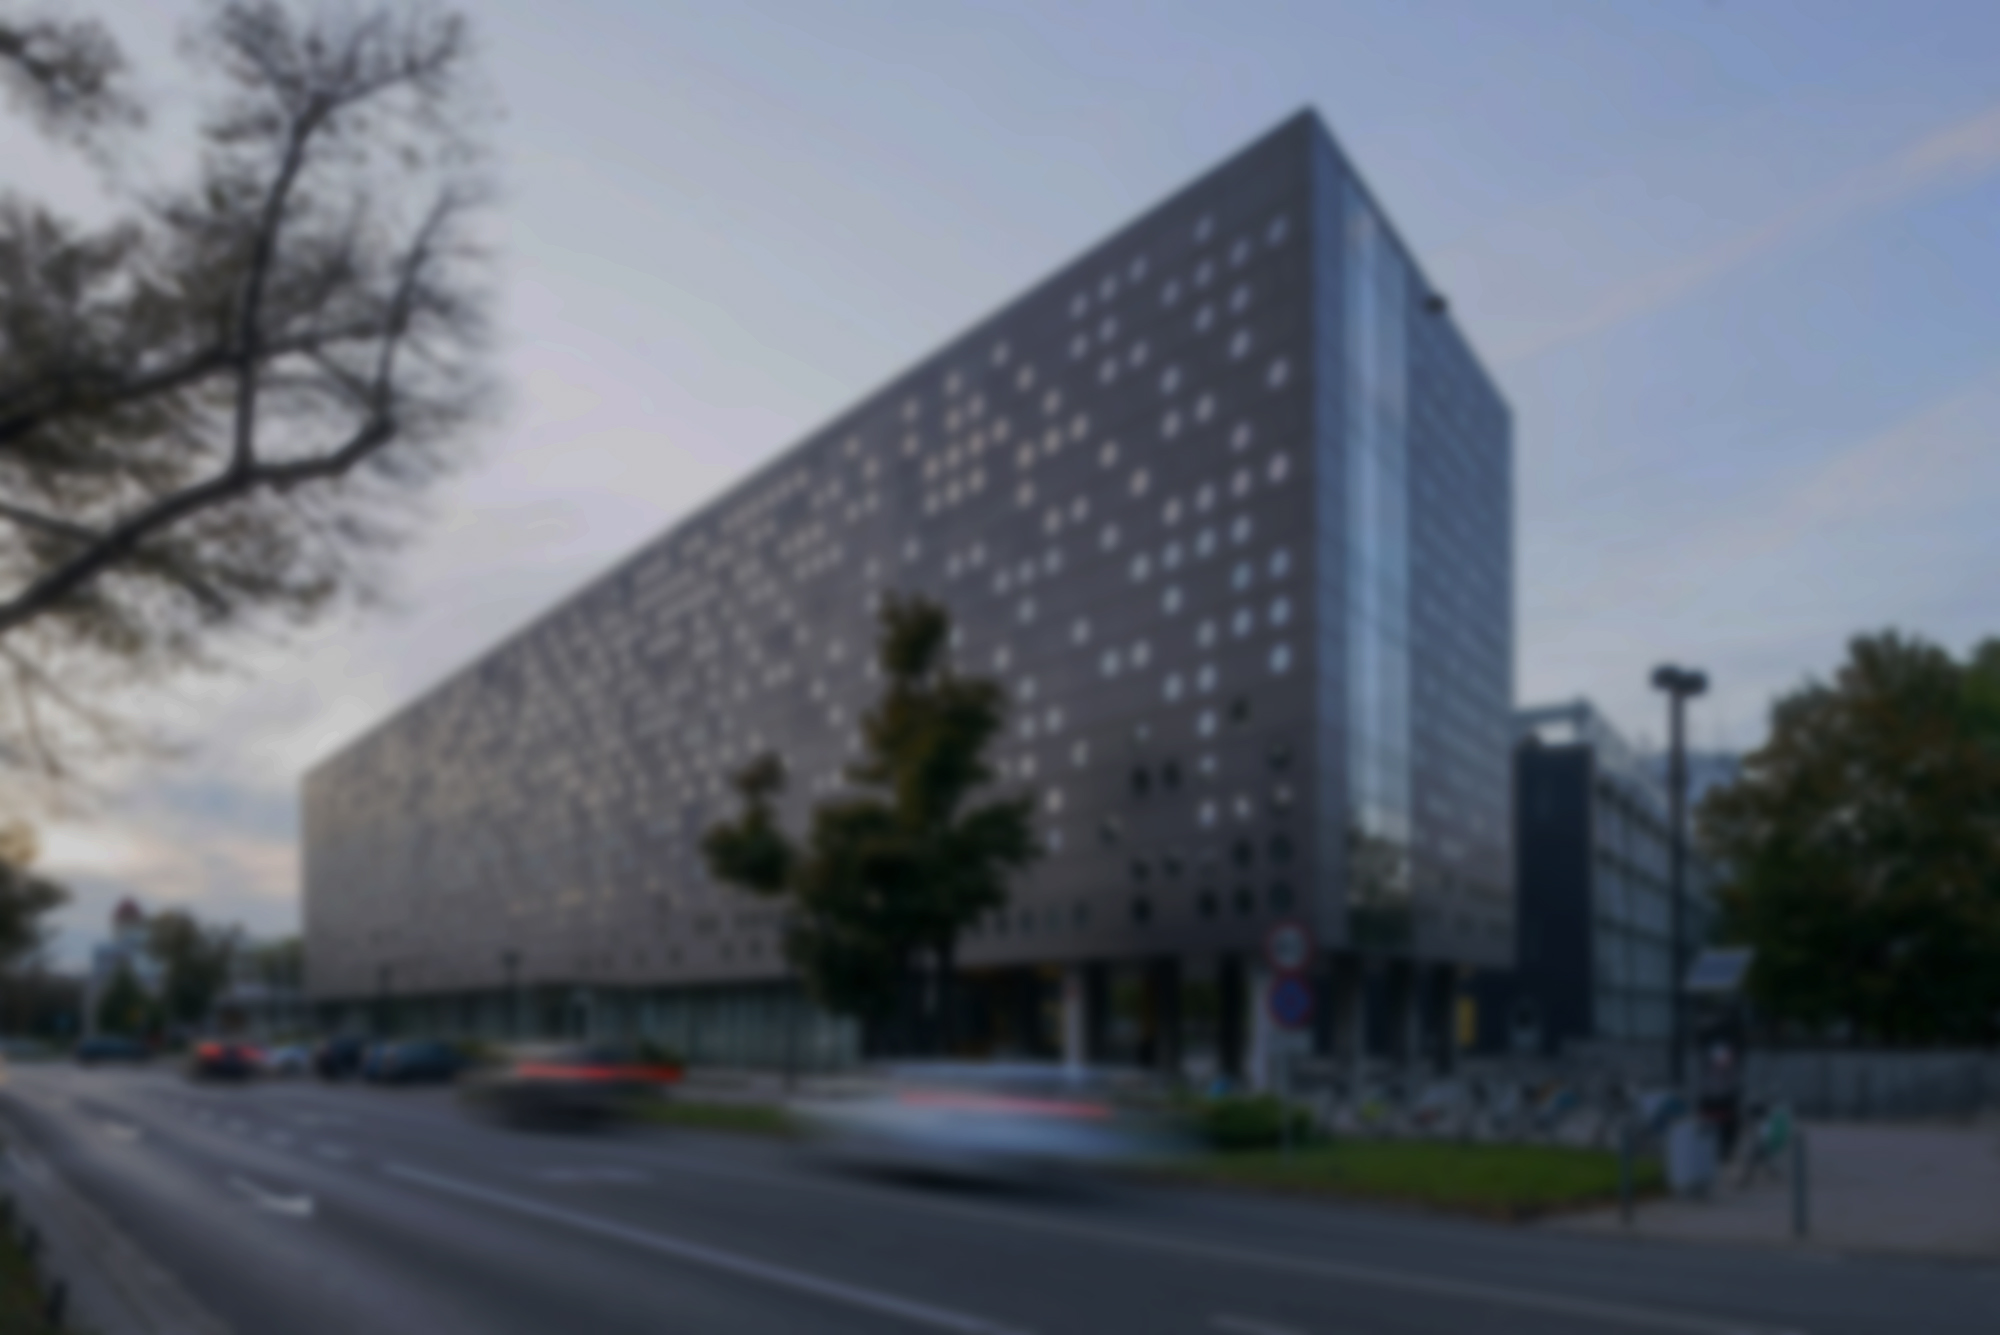
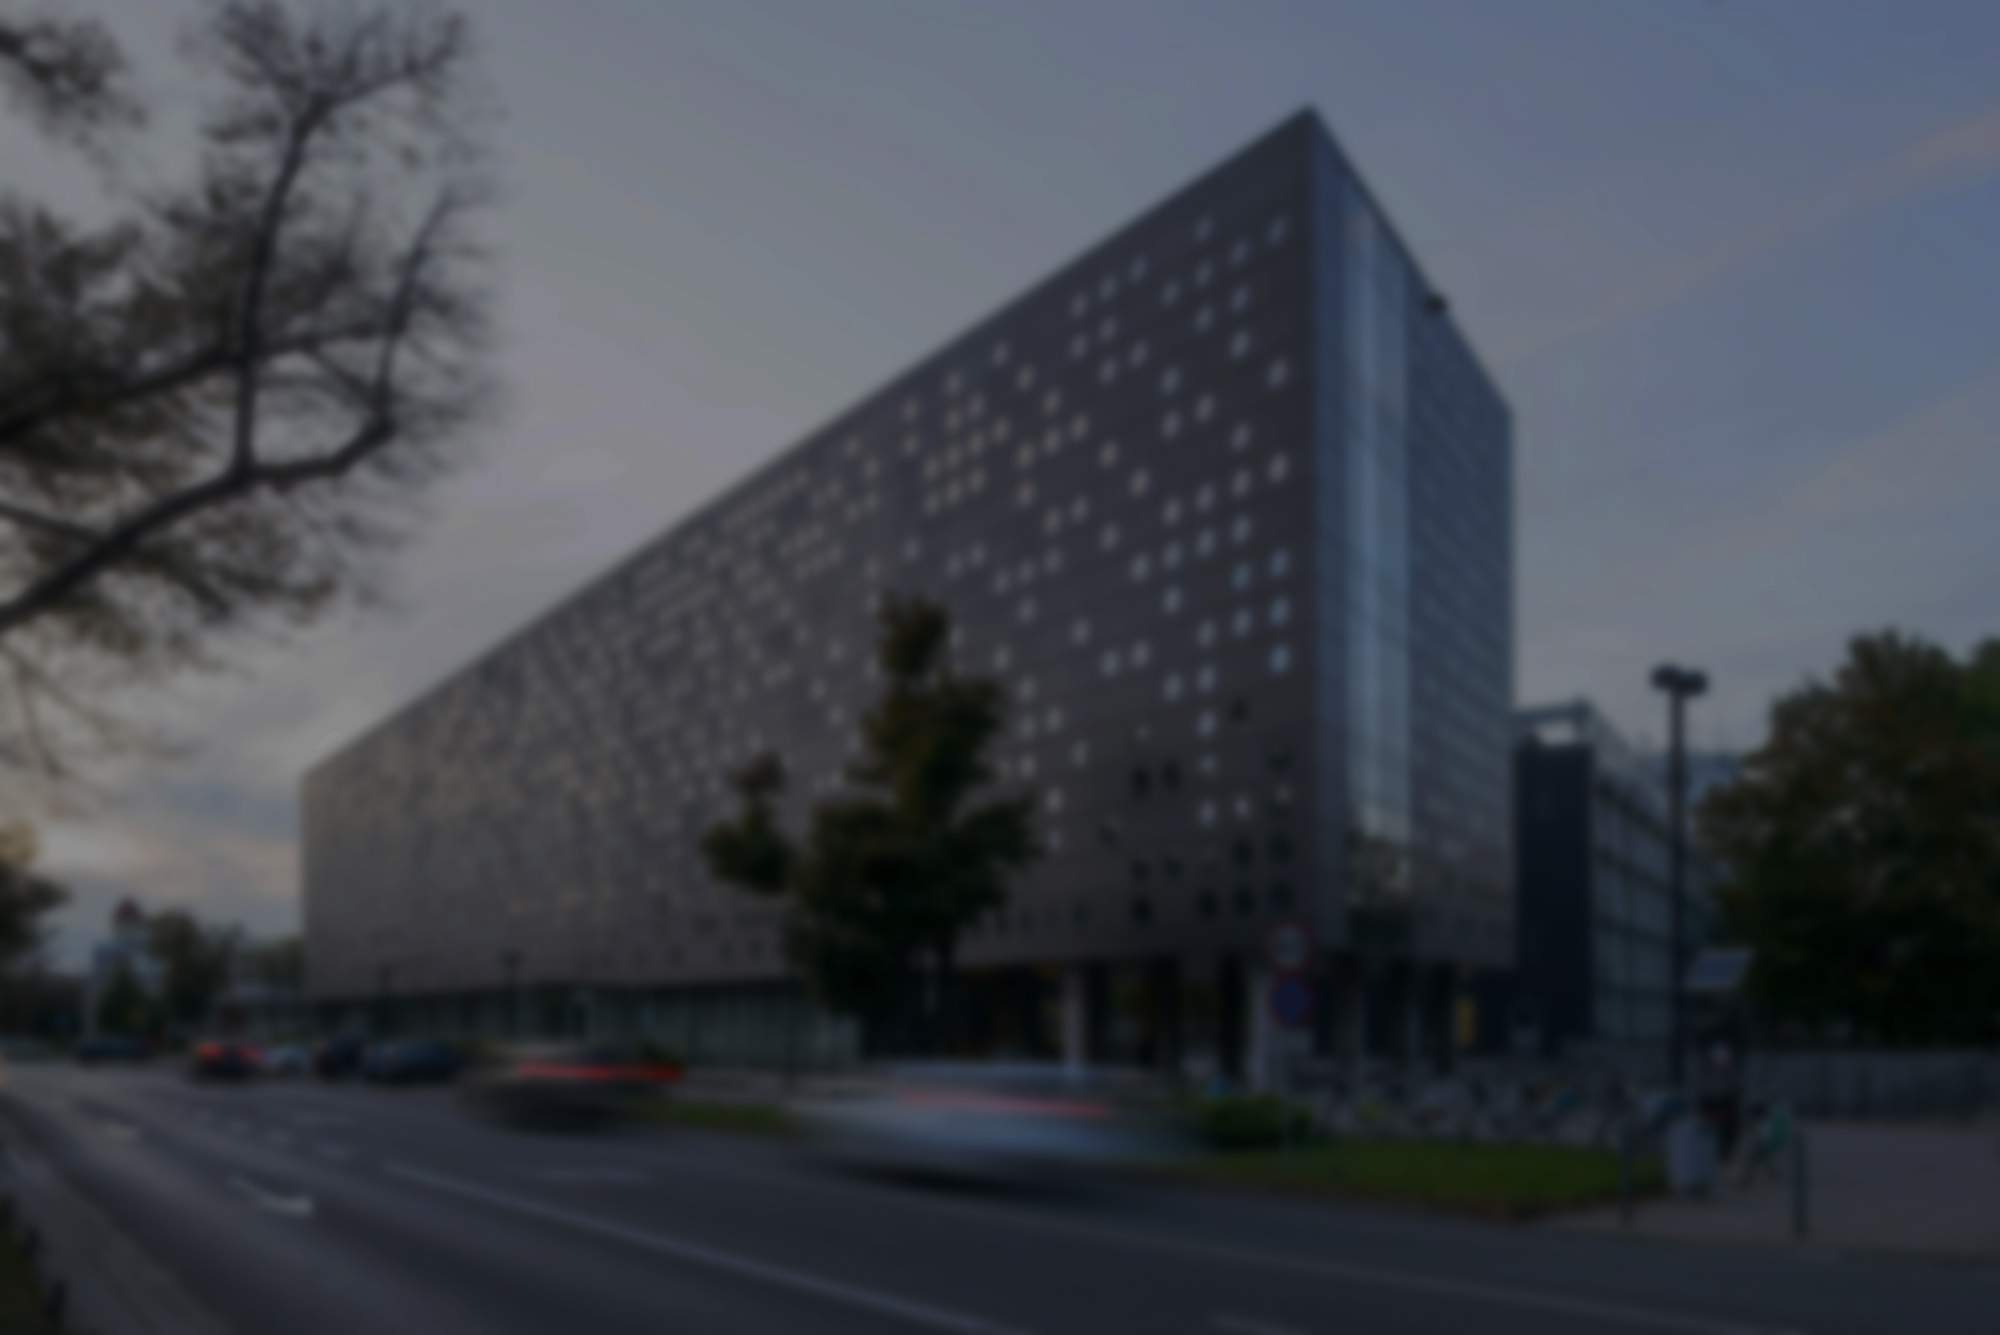
poprawki zapisów, upgrade tła

diff --git a/html/zarzadzanie_zapisy.html b/html/zarzadzanie_zapisy.html
@@ -23,13 +23,13 @@
 			}
 		</script>
 		<meta charset="utf-8">
-		<title>System obsługi studentów - Ogłoszenia</title>
+		<title>System obsługi studentów - zarządzanie zapisami</title>
 		<meta name="description" content="System Obsługi Studentów">
 		<link rel="stylesheet" href="/css/navbar.css">
         <link rel="stylesheet" href="/css/modal.css">
 		<link rel="stylesheet" href="/css/main.css">
 		<style>
-			.ogloszenie {
+			.zapisy {
 				border-radius: 10px;
 				margin: 5px 0px 5px 0px;
 				padding: 15px 15px 15px 15px;
@@ -37,14 +37,14 @@
 				background-color: red;
 			}
 
-			.ogloszenie h3 {
+			.zapisy h3 {
 				margin: 0px 0px 15px 0px;
 			}
-			.ogloszenie p {
+			.zapisy p {
 				margin: 8px 0px 8px 0px;
 			}
 
-            .ogloszenie button{
+            .zapisy button{
                 width: 100px;
             }
 
@@ -149,45 +149,45 @@
 			<div class="header">
 				<h2>Zarządzanie zapisami</h2>
 			</div>
-			<div id="ogloszenia" class="ogloszenia">
+			<div id="divzapisy">
                 <button id="nowe">Dodaj nowe zapisy</button>
             </div>
 		</div>
 
-        <div id="modalOgloszenie" class="modal">
+        <div id="modalZapisy" class="modal">
 			<div class="modal-content">
 				<div class="modal-header">
 					<span id="modalZamknij" class="close">&times;</span>
-					<h2 disabled id='modalOgloszenieTytul'>Zapisy <span><label for="modalOgloszenieId"> o ID = </label><span id="modalOgloszenieId"></span></span></h2>
+					<h2 disabled id='modalZapisyTytul'>Zapisy <span><label for="modalZapisyId"> o ID = </label><span id="modalZapisyId"></span></span></h2>
 				</div>
 				<div class="modal-body">
 
-                    <label for="modalOgloszenieNadawca">Nazwa:</label></br>
-					<input id="modalOgloszenieNadawca"></input></br>
+                    <label for="modalZapisyNadawca">Nazwa:</label></br>
+					<input id="modalZapisyNadawca"></input></br>
                     
-                    <label for="modalOgloszenieTemat">Czy publiczne?:</label></br>
-					<select id="modalOgloszenieTemat">
+                    <label for="modalZapisyTemat">Czy publiczne?:</label></br>
+					<select id="modalZapisyTemat">
 						<option value="false" selected>Nie</option>
 						<option value="true">Tak</option>
 					</select></br></br>
 
-                    <button id="modalOgloszenieEdytuj" onclick="edytuj_zatwierdz()" >Edytuj</button>
-                    <button id="modalOgloszenieDodaj" onclick="nowe_zatwierdz()">Dodaj ogłoszenie</button>
+                    <button id="modalZapisyEdytuj" onclick="edytuj_zatwierdz()" >Edytuj</button>
+                    <button id="modalZapisyDodaj" onclick="nowe_zatwierdz()">Dodaj zapisy</button>
 				</div>
 			</div>
 		</div>
 
 		<script>
-            $("#modalOgloszenieEdytuj").hide();
-            $("#modalOgloszenieDodaj").hide();
+            $("#modalZapisyEdytuj").hide();
+            $("#modalZapisyDodaj").hide();
 
             $("#modalZamknij").click(function() {
-				$("#modalOgloszenie").hide();
-                $("#modalOgloszenieId").html("");
-				$("#modalOgloszenieNadawca").val("");
-                $("#modalOgloszenieTemat").val("");
-                $("#modalOgloszenieEdytuj").hide();
-                $("#modalOgloszenieDodaj").hide();
+				$("#modalZapisy").hide();
+                $("#modalZapisyId").html("");
+				$("#modalZapisyNadawca").val("");
+                $("#modalZapisyTemat").val("");
+                $("#modalZapisyEdytuj").hide();
+                $("#modalZapisyDodaj").hide();
 			});
 
 			$.ajax({
@@ -202,15 +202,21 @@
                         console.log("Wystąpił błąd!");
                     } else if (data.status == 200){
                         if (data.result.length > 0) {
-                            $("#ogloszenia").append(
+                            $("#divzapisy").append(
                                 "<h3>Lista zapisów:</h3>"
                             );
                         }
-                        for(let i = 0; i < data.result.length; i++){                           
-							$("#ogloszenia").append(
-                                "<div class='ogloszenie'>"+
+                        for(let i = 0; i < data.result.length; i++){                
+							
+							let czy_pub = "Nie";
+							if ( data.result[i]['czy_publiczne'] === true ){
+								czy_pub = "Tak";
+							}
+
+							$("#divzapisy").append(
+                                "<div class='zapisy'>"+
                                     "<p><i>"+data.result[i]['nazwa']+"</i></p>"+
-                                    "<h3>"+data.result[i]['czy_publiczne']+"</h3>"+
+                                    "<h3> Czy publiczne: "+czy_pub+"</h3>"+
                                     "<button onclick=\"edytuj("+data.result[i]['id']+",\'"+data.result[i]['nazwa']+"\',\'"+data.result[i]['czy_publiczne']+"\')\" >Edytuj</button>"+
                                     "<button onclick=\"usun(\'"+data.result[i]['id']+"\')\" style='color:red'>Usuń</button>"+
                                 "</div>"
@@ -221,27 +227,27 @@
             });
 
             $("#nowe").click(function() {
-				$("#modalOgloszenie").show();
-                $("#modalOgloszenieDodaj").show();
-                $("#modalOgloszenieId").hide();
-                $('label[for="modalOgloszenieId"]').hide();
+				$("#modalZapisy").show();
+                $("#modalZapisyDodaj").show();
+                $("#modalZapisyId").hide();
+                $('label[for="modalZapisyId"]').hide();
 			});
 
             function edytuj(id,nazwa,czy_publiczne){
-                $("#modalOgloszenieId").html(id);
-                $("#modalOgloszenieNadawca").val(nazwa);
-                $("#modalOgloszenieTemat").val(czy_publiczne);
+                $("#modalZapisyId").html(id);
+                $("#modalZapisyNadawca").val(nazwa);
+                $("#modalZapisyTemat").val(czy_publiczne);
 
-                $("#modalOgloszenieId").show();
-                $('label[for="modalOgloszenieId"]').show();
-                $("#modalOgloszenie").show();
-                $("#modalOgloszenieEdytuj").show();
+                $("#modalZapisyId").show();
+                $('label[for="modalZapisyId"]').show();
+                $("#modalZapisy").show();
+                $("#modalZapisyEdytuj").show();
             }
 
 			function edytuj_zatwierdz(){
-				id = $("#modalOgloszenieId").html();
-				nazwa = $("#modalOgloszenieNadawca").val();
-				czy_publiczne = $("#modalOgloszenieTemat").val();
+				id = $("#modalZapisyId").html();
+				nazwa = $("#modalZapisyNadawca").val();
+				czy_publiczne = $("#modalZapisyTemat").val();
 
 				data_json = {
 					"id" : parseInt(id),
@@ -268,8 +274,8 @@
 			}
 
 			function nowe_zatwierdz(){
-				nazwa = $("#modalOgloszenieNadawca").val();
-				czy_publiczne = $("#modalOgloszenieTemat").val();
+				nazwa = $("#modalZapisyNadawca").val();
+				czy_publiczne = $("#modalZapisyTemat").val();
 
 				data_json = {
 					"nazwa" : nazwa,
@@ -295,7 +301,7 @@
 			}
 
             function usun(id){
-                conf = confirm("Czy napewno chcesz usunąć zapisy?")
+                conf = confirm("Czy napewno chcesz usunąć wybrane zapisy?")
 
                 if(conf){
 

diff --git a/html/ogloszenia.html b/html/ogloszenia.html
@@ -149,7 +149,7 @@
 			<div class="header">
 				<h2>Zarządzanie ogłoszeniami</h2>
 			</div>
-			<div id="ogloszenia" class="ogloszenia">
+			<div id="ogloszenia">
                 <button id="nowe">Dodaj nowe ogłoszenie</button>
             </div>
 		</div>
@@ -345,7 +345,7 @@
 			}
 
             function usun(id){
-                conf = confirm("Czy napewno chcesz usunąć ogłoszenie?")
+                conf = confirm("Czy napewno chcesz usunąć wybrane ogłoszenie?")
 
                 if(conf){
 
